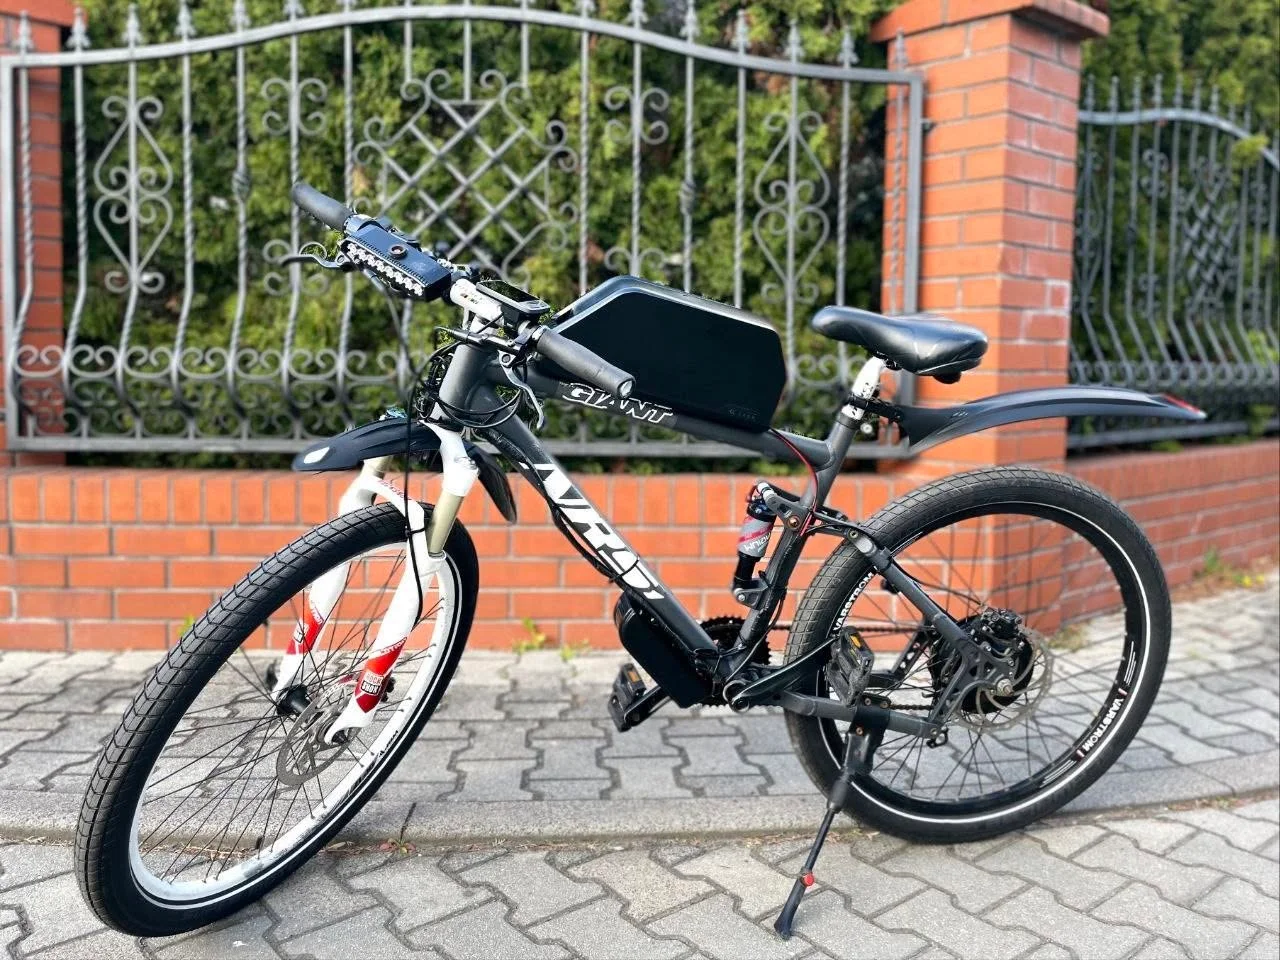
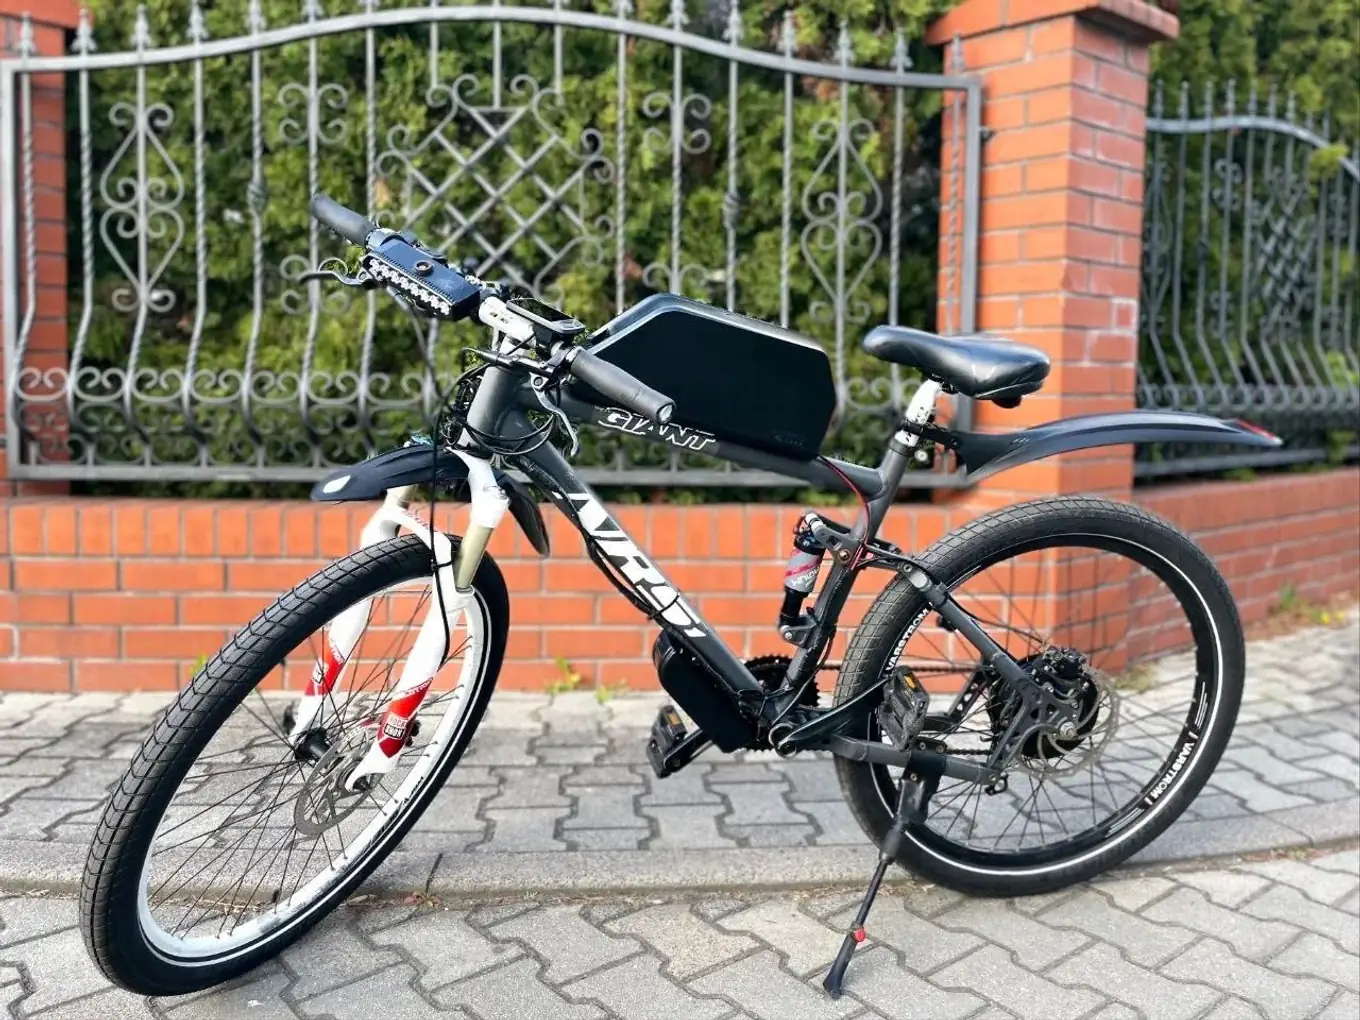
perfomance fixed

diff --git a/pages/conversion.vue b/pages/conversion.vue
@@ -156,6 +156,10 @@
               :alt="$t(photo.altKey)"
               class="w-full h-64 sm:h-72 object-cover group-hover:scale-105 transition-transform duration-500"
               loading="lazy"
+              decoding="async"
+              width="820"
+              height="1093"
+              sizes="(max-width: 640px) 100vw, (max-width: 1280px) 33vw, 427px"
             />
             <div class="absolute inset-0" style="background: linear-gradient(to top, rgba(5,10,18,0.85) 0%, transparent 50%);"></div>
             <div class="absolute bottom-4 left-4 right-4">

diff --git a/nuxt.config.ts b/nuxt.config.ts
@@ -20,7 +20,7 @@ export default defineNuxtConfig({
     dirs: ['~/components']
   },
   i18n: {
-    baseUrl: 'https://evola.pl',
+    baseUrl: 'https://evola-bikes.com',
     locales: [
       {
         code: 'ru',